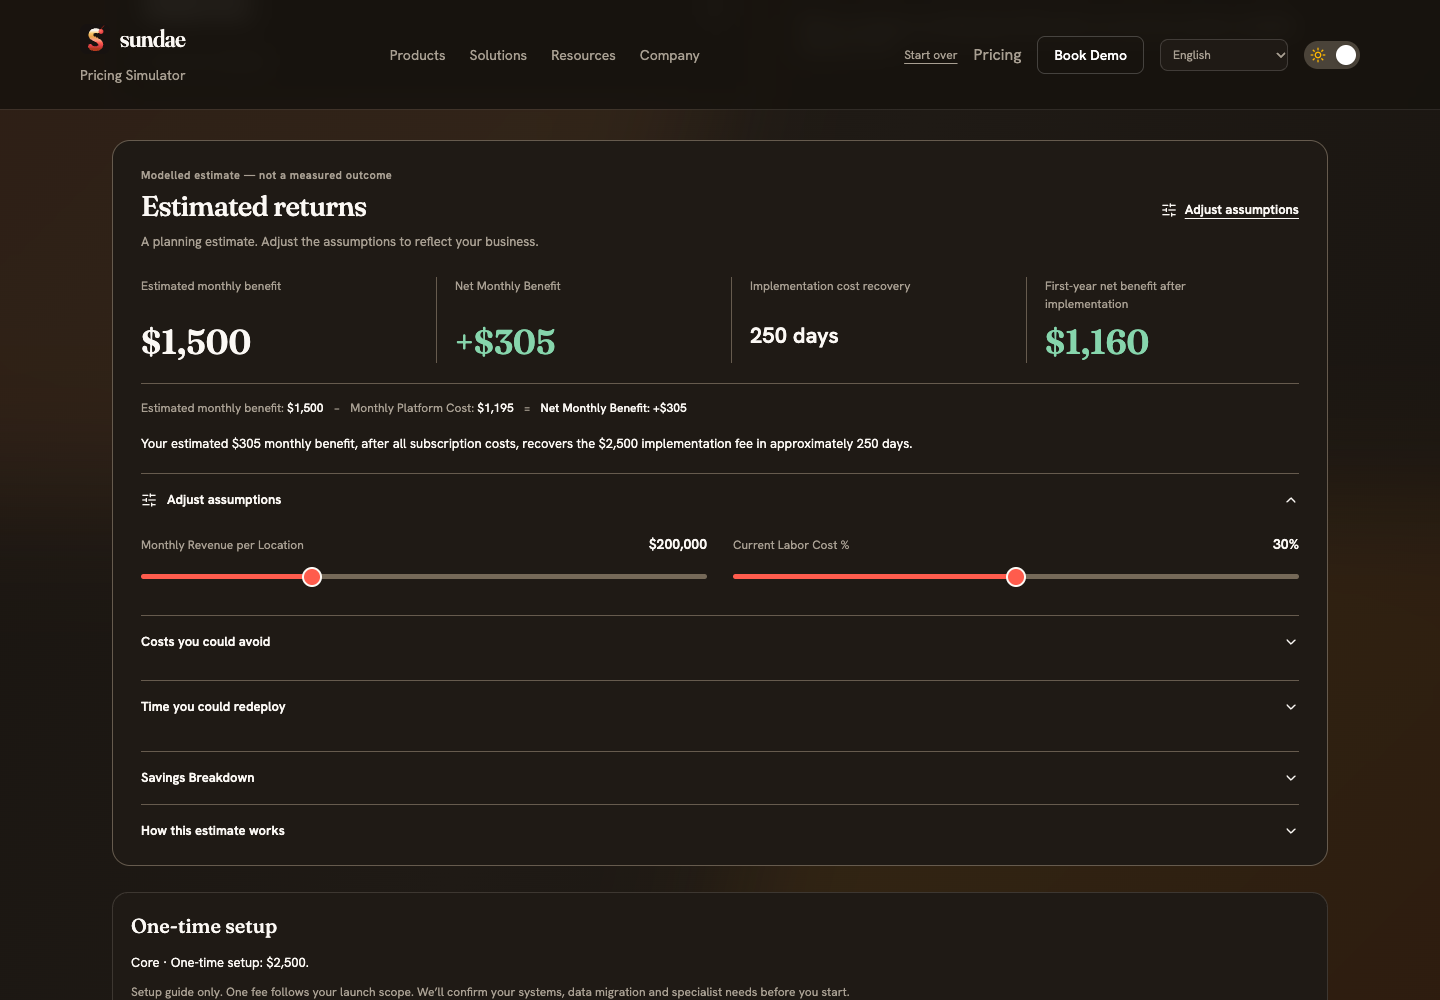
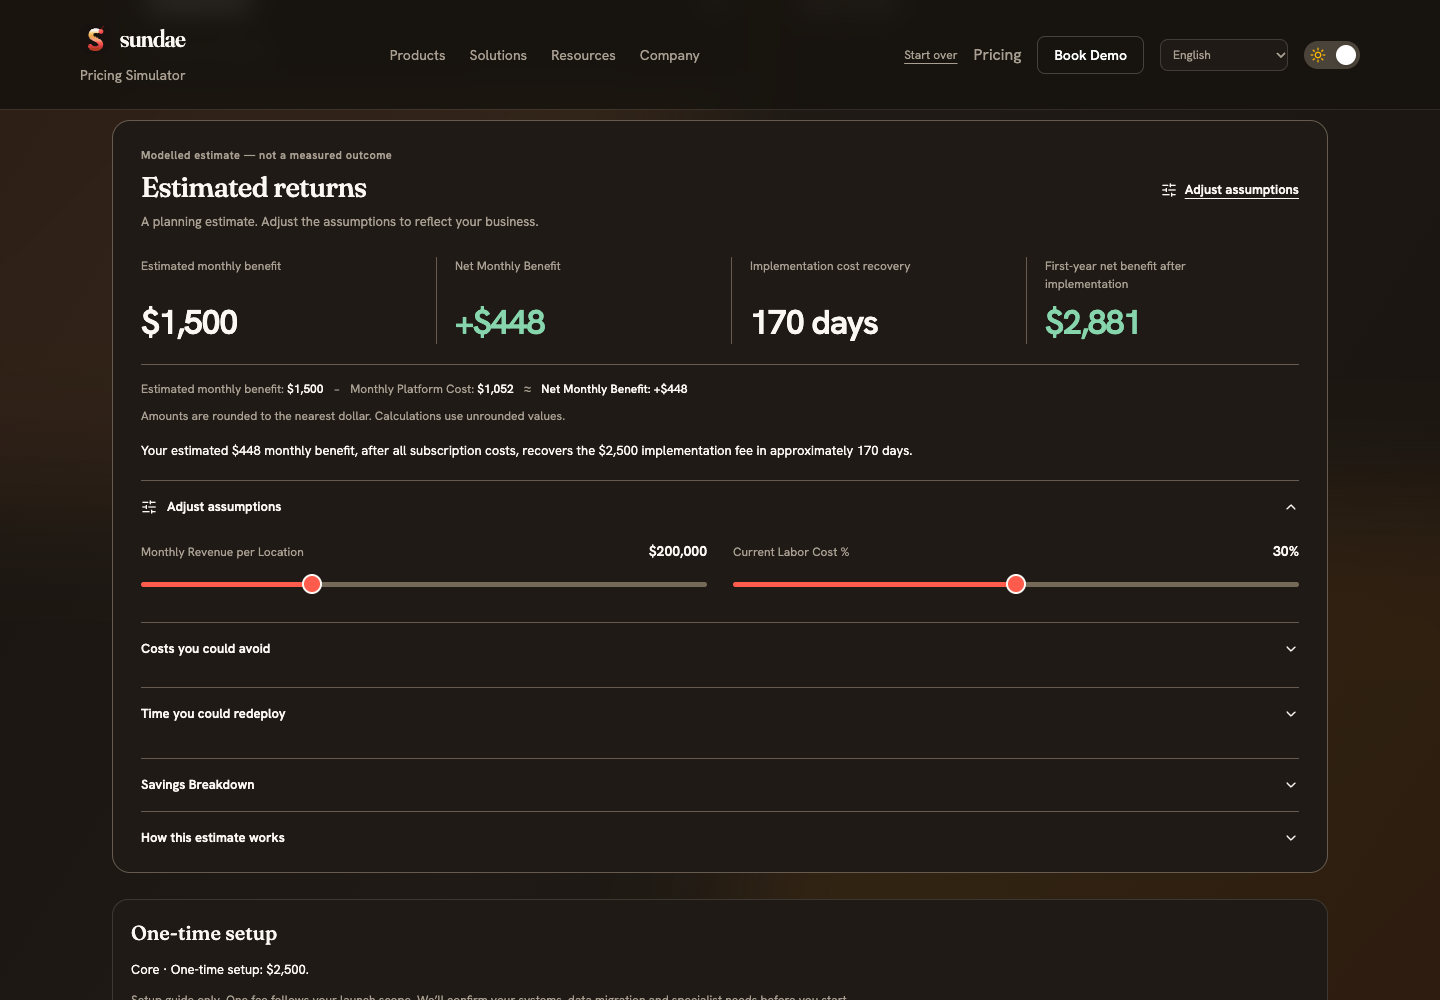
Round estimated returns and unify result typography (#59)
* refine(pricing): round return amounts and align result typography

* fix(pricing): isolate signed currency in RTL return metrics

diff --git a/src/lib/roiPresentationCopy.ts b/src/lib/roiPresentationCopy.ts
@@ -1,7 +1,8 @@
 import type { PricingLocale } from './locales';
 
-const copy: Record<PricingLocale, { title: string; hint: string; nextTitle: string; nextHint: string; adjust: string; method: string; cashTitle: string; cashNote: string; tools: string; hours: string; rate: string; capacity: string; capacityNote: string; monthlyBenefit: string; operatingSavings: string }> = {
+const copy: Record<PricingLocale, { title: string; hint: string; roundingNote: string; nextTitle: string; nextHint: string; adjust: string; method: string; cashTitle: string; cashNote: string; tools: string; hours: string; rate: string; capacity: string; capacityNote: string; monthlyBenefit: string; operatingSavings: string }> = {
   "en": {
+    "roundingNote": "Amounts are rounded to the nearest dollar. Calculations use unrounded values.",
     "nextTitle": "Next steps",
     "nextHint": "Book a demo, request access, or save this estimate for your team.",
     "title": "Estimated returns",
@@ -19,6 +20,7 @@ const copy: Record<PricingLocale, { title: string; hint: string; nextTitle: stri
     "operatingSavings": "Modelled operating savings"
   },
   "ar": {
+    "roundingNote": "تُقرَّب المبالغ إلى أقرب دولار. تستخدم الحسابات القيم غير المقرَّبة.",
     "nextTitle": "الخطوات التالية",
     "nextHint": "احجز عرضًا، أو اطلب الوصول، أو احفظ هذا التقدير لفريقك.",
     "title": "العوائد المقدّرة",
@@ -36,6 +38,7 @@ const copy: Record<PricingLocale, { title: string; hint: string; nextTitle: stri
     "operatingSavings": "وفورات تشغيلية مقدّرة بالنموذج"
   },
   "fr": {
+    "roundingNote": "Les montants sont arrondis au dollar le plus proche. Les calculs utilisent les valeurs non arrondies.",
     "nextTitle": "Prochaines étapes",
     "nextHint": "Réservez une démo, demandez un accès ou enregistrez cette estimation pour votre équipe.",
     "title": "Retours estimés",
@@ -53,6 +56,7 @@ const copy: Record<PricingLocale, { title: string; hint: string; nextTitle: stri
     "operatingSavings": "Économies opérationnelles modélisées"
   },
   "es": {
+    "roundingNote": "Los importes se redondean al dólar más cercano. Los cálculos usan valores sin redondear.",
     "nextTitle": "Próximos pasos",
     "nextHint": "Reserva una demo, solicita acceso o guarda esta estimación para tu equipo.",
     "title": "Retornos estimados",
@@ -70,6 +74,7 @@ const copy: Record<PricingLocale, { title: string; hint: string; nextTitle: stri
     "operatingSavings": "Ahorros operativos modelados"
   },
   "de": {
+    "roundingNote": "Beträge werden auf volle US-Dollar gerundet. Berechnungen verwenden ungerundete Werte.",
     "nextTitle": "Nächste Schritte",
     "nextHint": "Buchen Sie eine Demo, fragen Sie Zugang an oder speichern Sie diese Schätzung für Ihr Team.",
     "title": "Geschätzter Nutzen",
@@ -87,6 +92,7 @@ const copy: Record<PricingLocale, { title: string; hint: string; nextTitle: stri
     "operatingSavings": "Modellierte betriebliche Einsparungen"
   },
   "nl": {
+    "roundingNote": "Bedragen worden afgerond op hele dollars. Berekeningen gebruiken niet-afgeronde waarden.",
     "nextTitle": "Volgende stappen",
     "nextHint": "Boek een demo, vraag toegang aan of bewaar deze raming voor uw team.",
     "title": "Geschatte opbrengsten",
@@ -104,6 +110,7 @@ const copy: Record<PricingLocale, { title: string; hint: string; nextTitle: stri
     "operatingSavings": "Gemodelleerde operationele besparingen"
   },
   "pt": {
+    "roundingNote": "Os montantes são arredondados ao dólar mais próximo. Os cálculos usam valores não arredondados.",
     "nextTitle": "Próximos passos",
     "nextHint": "Marque uma demonstração, solicite acesso ou guarde esta estimativa para a sua equipa.",
     "title": "Retornos estimados",
@@ -121,6 +128,7 @@ const copy: Record<PricingLocale, { title: string; hint: string; nextTitle: stri
     "operatingSavings": "Poupanças operacionais modeladas"
   },
   "hi": {
+    "roundingNote": "राशियाँ निकटतम डॉलर तक गोल की गई हैं। गणना में बिना गोल किए मानों का उपयोग होता है।",
     "nextTitle": "अगले कदम",
     "nextHint": "डेमो बुक करें, एक्सेस का अनुरोध करें या अपनी टीम के लिए यह अनुमान सहेजें।",
     "title": "अनुमानित लाभ",
@@ -138,6 +146,7 @@ const copy: Record<PricingLocale, { title: string; hint: string; nextTitle: stri
     "operatingSavings": "मॉडल के अनुसार परिचालन बचत"
   },
   "ur": {
+    "roundingNote": "رقوم کو قریب ترین ڈالر تک گول کیا گیا ہے۔ حساب میں اصل غیر گول شدہ اعداد استعمال ہوتے ہیں۔",
     "nextTitle": "اگلے مراحل",
     "nextHint": "ڈیمو بک کریں، رسائی کی درخواست کریں یا یہ تخمینہ اپنی ٹیم کے لیے محفوظ کریں۔",
     "title": "تخمینی فوائد",
@@ -155,6 +164,7 @@ const copy: Record<PricingLocale, { title: string; hint: string; nextTitle: stri
     "operatingSavings": "ماڈل کے مطابق عملیاتی بچت"
   },
   "it": {
+    "roundingNote": "Gli importi sono arrotondati al dollaro più vicino. I calcoli usano valori non arrotondati.",
     "nextTitle": "Prossimi passi",
     "nextHint": "Prenota una demo, richiedi accesso o salva questa stima per il tuo team.",
     "title": "Benefici stimati",
@@ -172,6 +182,7 @@ const copy: Record<PricingLocale, { title: string; hint: string; nextTitle: stri
     "operatingSavings": "Risparmi operativi modellati"
   },
   "pl": {
+    "roundingNote": "Kwoty są zaokrąglone do pełnych dolarów. Obliczenia używają wartości niezaokrąglonych.",
     "nextTitle": "Kolejne kroki",
     "nextHint": "Umów demo, poproś o dostęp lub zapisz tę wycenę dla zespołu.",
     "title": "Szacowane korzyści",
@@ -189,6 +200,7 @@ const copy: Record<PricingLocale, { title: string; hint: string; nextTitle: stri
     "operatingSavings": "Modelowane oszczędności operacyjne"
   },
   "tr": {
+    "roundingNote": "Tutarlar en yakın dolara yuvarlanır. Hesaplamalarda yuvarlanmamış değerler kullanılır.",
     "nextTitle": "Sonraki adımlar",
     "nextHint": "Demo ayırtın, erişim talep edin veya bu tahmini ekibiniz için kaydedin.",
     "title": "Tahmini getiriler",
@@ -206,6 +218,7 @@ const copy: Record<PricingLocale, { title: string; hint: string; nextTitle: stri
     "operatingSavings": "Modellenen operasyonel tasarruf"
   },
   "zh-Hans": {
+    "roundingNote": "金额四舍五入到最接近的美元整数。计算使用未舍入的数值。",
     "nextTitle": "下一步",
     "nextHint": "预约演示、申请访问，或为团队保存此估算。",
     "title": "预计收益",
@@ -223,6 +236,7 @@ const copy: Record<PricingLocale, { title: string; hint: string; nextTitle: stri
     "operatingSavings": "模型估算的运营节省"
   },
   "ja": {
+    "roundingNote": "金額は1米ドル単位に四捨五入して表示しています。計算には丸め前の値を使用します。",
     "nextTitle": "次のステップ",
     "nextHint": "デモの予約、アクセスの申請、またはチーム用にこの見積もりを保存できます。",
     "title": "推定効果",
@@ -240,6 +254,7 @@ const copy: Record<PricingLocale, { title: string; hint: string; nextTitle: stri
     "operatingSavings": "モデルによる運営費削減額"
   },
   "ko": {
+    "roundingNote": "금액은 가장 가까운 달러 단위로 반올림합니다. 계산에는 반올림 전 값을 사용합니다.",
     "nextTitle": "다음 단계",
     "nextHint": "데모를 예약하거나 이용을 신청하거나 팀을 위해 이 견적을 저장하세요.",
     "title": "예상 편익",
@@ -257,6 +272,7 @@ const copy: Record<PricingLocale, { title: string; hint: string; nextTitle: stri
     "operatingSavings": "모델 기반 운영 절감액"
   },
   "id": {
+    "roundingNote": "Jumlah dibulatkan ke dolar terdekat. Perhitungan memakai nilai sebelum pembulatan.",
     "nextTitle": "Langkah berikutnya",
     "nextHint": "Jadwalkan demo, minta akses, atau simpan estimasi ini untuk tim Anda.",
     "title": "Estimasi manfaat",
@@ -274,6 +290,7 @@ const copy: Record<PricingLocale, { title: string; hint: string; nextTitle: stri
     "operatingSavings": "Penghematan operasional dalam model"
   },
   "vi": {
+    "roundingNote": "Số tiền được làm tròn đến đô la gần nhất. Phép tính sử dụng giá trị chưa làm tròn.",
     "nextTitle": "Các bước tiếp theo",
     "nextHint": "Đặt lịch demo, yêu cầu truy cập hoặc lưu ước tính này cho đội ngũ của bạn.",
     "title": "Lợi ích ước tính",
@@ -291,6 +308,7 @@ const copy: Record<PricingLocale, { title: string; hint: string; nextTitle: stri
     "operatingSavings": "Tiết kiệm vận hành theo mô hình"
   },
   "ro": {
+    "roundingNote": "Sumele sunt rotunjite la cel mai apropiat dolar. Calculele folosesc valorile nerotunjite.",
     "nextTitle": "Pașii următori",
     "nextHint": "Programează o demonstrație, solicită acces sau salvează această estimare pentru echipa ta.",
     "title": "Beneficii estimate",
@@ -308,6 +326,7 @@ const copy: Record<PricingLocale, { title: string; hint: string; nextTitle: stri
     "operatingSavings": "Economii operaționale modelate"
   },
   "sv": {
+    "roundingNote": "Beloppen avrundas till närmaste dollar. Beräkningarna använder oavrundade värden.",
     "nextTitle": "Nästa steg",
     "nextHint": "Boka en demo, begär åtkomst eller spara den här uppskattningen för ditt team.",
     "title": "Beräknad nytta",
@@ -325,6 +344,7 @@ const copy: Record<PricingLocale, { title: string; hint: string; nextTitle: stri
     "operatingSavings": "Modellerade driftbesparingar"
   },
   "bn": {
+    "roundingNote": "অঙ্কগুলো নিকটতম ডলারে পূর্ণ করা হয়েছে। গণনায় অপরিবর্তিত মূল মান ব্যবহার করা হয়।",
     "nextTitle": "পরবর্তী ধাপ",
     "nextHint": "ডেমো বুক করুন, অ্যাক্সেসের অনুরোধ করুন বা দলের জন্য এই হিসাব সংরক্ষণ করুন।",
     "title": "আনুমানিক সুবিধা",
@@ -342,6 +362,7 @@ const copy: Record<PricingLocale, { title: string; hint: string; nextTitle: stri
     "operatingSavings": "মডেল অনুযায়ী পরিচালন সাশ্রয়"
   },
   "th": {
+    "roundingNote": "จำนวนเงินปัดเป็นดอลลาร์ที่ใกล้ที่สุด การคำนวณใช้ค่าที่ยังไม่ปัดเศษ",
     "nextTitle": "ขั้นตอนถัดไป",
     "nextHint": "จองเดโม ขอสิทธิ์เข้าใช้งาน หรือบันทึกประมาณการนี้ให้ทีมของคุณ",
     "title": "ผลประโยชน์โดยประมาณ",
@@ -359,6 +380,7 @@ const copy: Record<PricingLocale, { title: string; hint: string; nextTitle: stri
     "operatingSavings": "การประหยัดจากการดำเนินงานตามแบบจำลอง"
   },
   "ms": {
+    "roundingNote": "Amaun dibundarkan kepada dolar terdekat. Pengiraan menggunakan nilai sebelum pembundaran.",
     "nextTitle": "Langkah seterusnya",
     "nextHint": "Tempah demo, minta akses atau simpan anggaran ini untuk pasukan anda.",
     "title": "Anggaran manfaat",
@@ -376,6 +398,7 @@ const copy: Record<PricingLocale, { title: string; hint: string; nextTitle: stri
     "operatingSavings": "Penjimatan operasi yang dimodelkan"
   },
   "az": {
+    "roundingNote": "Məbləğlər ən yaxın dollara yuvarlaqlaşdırılır. Hesablamalarda yuvarlaqlaşdırılmamış dəyərlər istifadə olunur.",
     "nextTitle": "Növbəti addımlar",
     "nextHint": "Demo sifariş edin, giriş üçün müraciət edin və ya bu hesablamanı komandanız üçün saxlayın.",
     "title": "Təxmini faydalar",
@@ -393,6 +416,7 @@ const copy: Record<PricingLocale, { title: string; hint: string; nextTitle: stri
     "operatingSavings": "Modelləşdirilmiş əməliyyat qənaəti"
   },
   "ru": {
+    "roundingNote": "Суммы округлены до ближайшего доллара. Расчёты используют неокруглённые значения.",
     "nextTitle": "Следующие шаги",
     "nextHint": "Запишитесь на демо, запросите доступ или сохраните этот расчёт для команды.",
     "title": "Ожидаемые выгоды",
@@ -410,6 +434,7 @@ const copy: Record<PricingLocale, { title: string; hint: string; nextTitle: stri
     "operatingSavings": "Расчётная операционная экономия"
   },
   "pap": {
+    "roundingNote": "Montantenan ta rondá na e dòler mas serka. Kalkulashonnan ta usa balornan sin rondá.",
     "nextTitle": "Siguiente pasonan",
     "nextHint": "Reserva un demo, pidi akseso òf warda e estimashon aki pa bo ekipo.",
     "title": "Benefisionan estimá",

diff --git a/src/components/PricingDisplay/ROISimulator.tsx b/src/components/PricingDisplay/ROISimulator.tsx
@@ -20,7 +20,11 @@ export function ROISimulator() {
   const { layer, corePackage, locations, watchtowerModules, roiInputs, setROIInputs } = useConfiguration();
   const { quote: pricing } = useBuyerQuote();
   const headingId = useId();
-  const money = (amount: number) => new Intl.NumberFormat(locale, { style: 'currency', currency: 'USD', maximumFractionDigits: amount % 1 ? 2 : 0 }).format(amount);
+  // Round presentation only; model inputs, net benefit and recovery keep their precision.
+  const wholeDollars = (amount: number) => Math.sign(amount) * Math.round(Math.abs(amount)) || 0;
+  const moneyFormat = new Intl.NumberFormat(locale, { style: 'currency', currency: 'USD', minimumFractionDigits: 0, maximumFractionDigits: 0 });
+  const signedMoneyFormat = new Intl.NumberFormat(locale, { style: 'currency', currency: 'USD', minimumFractionDigits: 0, maximumFractionDigits: 0, signDisplay: 'exceptZero' });
+  const money = (amount: number) => moneyFormat.format(wholeDollars(amount));
   const activeDomains = (corePackages[corePackage]?.includesDomainModules ?? []) as readonly string[];
   const implementationCost = pricing.implementation.requiresScoping || pricing.implementation.isFloor ? null : pricing.implementation.fee;
   const roi = useROICalculation(
@@ -39,7 +43,7 @@ export function ROISimulator() {
   useEffect(() => {
     if (roiInputs.monthlyRevenue !== revenue) setROIInputs({ monthlyRevenue: revenue });
   }, [roiInputs.monthlyRevenue, revenue, setROIInputs]);
-  const signedMoney = (amount: number) => new Intl.NumberFormat(locale, { style: 'currency', currency: 'USD', maximumFractionDigits: amount % 1 ? 2 : 0, signDisplay: amount > 0 ? 'always' : 'auto' }).format(amount);
+  const signedMoney = (amount: number) => signedMoneyFormat.format(wholeDollars(amount));
   const state = roi.monthlyNetBenefit > 0 ? 'positive' : 'shortfall';
 
   return <section id="estimated-returns" tabIndex={-1} className="roi-workspace" aria-labelledby={headingId} data-testid="roi-workspace">
@@ -53,12 +57,13 @@ export function ROISimulator() {
     </div>
 
     <dl className="roi-metrics" data-testid="roi-metrics">
-      <div><dt>{ui.monthlyBenefit}</dt><dd data-testid="roi-monthly-funding">{money(roi.monthlyFunding)}</dd></div>
-      <div data-state={state}><dt>{copy.netMonthlyBenefit}</dt><dd data-testid="roi-monthly-net">{signedMoney(roi.monthlyNetBenefit)}</dd></div>
-      <div><dt>{economicsCopy.paybackLabel}</dt><dd className="roi-payback-value" data-testid="roi-payback">{paybackText}</dd></div>
-      <div data-state={roi.firstYearNetBenefit !== null && roi.firstYearNetBenefit > 0 ? 'positive' : 'neutral'}><dt>{economicsCopy.firstYearNetLabel}</dt><dd data-testid="roi-first-year-net">{roi.firstYearNetBenefit === null ? '—' : money(roi.firstYearNetBenefit)}</dd></div>
+      <div><dt>{ui.monthlyBenefit}</dt><dd data-testid="roi-monthly-funding"><bdi dir="ltr">{money(roi.monthlyFunding)}</bdi></dd></div>
+      <div data-state={state}><dt>{copy.netMonthlyBenefit}</dt><dd data-testid="roi-monthly-net"><bdi dir="ltr">{signedMoney(roi.monthlyNetBenefit)}</bdi></dd></div>
+      <div><dt>{economicsCopy.paybackLabel}</dt><dd className="roi-payback-value" data-numeric={roi.monthlyNetBenefit > 0 && roi.paybackDays !== null} data-testid="roi-payback">{paybackText}</dd></div>
+      <div data-state={roi.firstYearNetBenefit !== null && roi.firstYearNetBenefit > 0 ? 'positive' : 'neutral'}><dt>{economicsCopy.firstYearNetLabel}</dt><dd data-testid="roi-first-year-net"><bdi dir="ltr">{roi.firstYearNetBenefit === null ? '—' : money(roi.firstYearNetBenefit)}</bdi></dd></div>
     </dl>
-    <p className="roi-equation"><span>{ui.monthlyBenefit}: <bdi>{money(roi.monthlyFunding)}</bdi></span><span aria-hidden>−</span><span>{copy.monthlyPlatformCost}: <bdi>{money(pricing.monthly)}</bdi></span><span aria-hidden>=</span><strong>{copy.netMonthlyBenefit}: <bdi>{signedMoney(roi.monthlyNetBenefit)}</bdi></strong></p>
+    <p className="roi-equation"><span>{ui.monthlyBenefit}: <bdi>{money(roi.monthlyFunding)}</bdi></span><span aria-hidden>−</span><span>{copy.monthlyPlatformCost}: <bdi>{money(pricing.monthly)}</bdi></span><span aria-hidden>≈</span><strong>{copy.netMonthlyBenefit}: <bdi>{signedMoney(roi.monthlyNetBenefit)}</bdi></strong></p>
+    <p className="roi-rounding-note">{ui.roundingNote}</p>
     {recoveryExplanation && <p className="roi-recovery-note" data-testid="roi-recovery-explanation">{recoveryExplanation}</p>}
     {roi.monthlyNetBenefit <= 0 && <p className="roi-shortfall-note">{copy.roiDescriptions.longTerm}</p>}
 

diff --git a/__tests__/roiRendering.spec.ts b/__tests__/roiRendering.spec.ts
@@ -10,13 +10,14 @@ import setupPolicy from './fixtures/roi-implementation-policy.json';
 const state = vi.hoisted(() => ({
   layer: 'both' as 'core' | 'both', corePackage: 'core_foundation' as const, locations: 1,
   watchtowerModules: [], crewSkus: ['crew_operations', 'crew_scheduling', 'crew_tna', 'crew_payroll'],
-  roiInputs: { monthlyRevenue: 200000, laborPercent: 30, foodCostPercent: 30 },
+  billingCycle: 'monthly' as 'monthly' | 'annual_upfront',
+  roiInputs: { monthlyRevenue: 200000, laborPercent: 30, foodCostPercent: 30, replaceableSystemsSpend: 0 },
   setROIInputs: () => {}, goToStep: () => {}, goToPrevStep: () => {},
 }));
 vi.mock('../src/contexts/LocaleContext', () => ({ useLocale: () => ({ locale: 'en' }) }));
 vi.mock('../src/hooks/useConfiguration', () => ({ useConfiguration: () => state }));
 vi.mock('../src/hooks/useBuyerQuote', () => ({ useBuyerQuote: () => ({ quote: calculateBasketQuote({
-  v: 2, ...state, addOns: [], crossIntelligence: 'none', billingCycle: 'monthly',
+  v: 2, ...state, addOns: [], crossIntelligence: 'none', billingCycle: state.billingCycle,
   operatingModels: [], employees: null, payrollCountry: '', crewSkus: state.crewSkus as never,
 }) }) }));
 
@@ -24,6 +25,30 @@ function card(html: string, id: string) {
   return html.match(new RegExp(`data-testid="${id}"[^>]*>([\\s\\S]*?)</(?:div|dd)>`))?.[1].replace(/<[^>]*>|<!-- -->/g, '');
 }
 describe('rendered full-plan ROI results', () => {
+  it('shows whole-dollar estimates while retaining fractional subscription costs in the calculation', () => {
+    applyLiveCatalogValues({ ...catalog, ...setupPolicy } as never);
+    state.layer = 'core';
+    state.billingCycle = 'annual_upfront';
+    try {
+      const html = renderToStaticMarkup(createElement(ROISimulator));
+      expect(card(html, 'roi-monthly-net')).toBe('+$448');
+      expect(card(html, 'roi-first-year-net')).toBe('$2,881');
+      expect(card(html, 'roi-payback')).toBe('170 days');
+      expect(html).toContain('$1,052');
+      expect(html).not.toContain('$1,051.60');
+      expect(html).toContain('Calculations use unrounded values.');
+    } finally { state.layer = 'both'; state.billingCycle = 'monthly'; }
+  });
+  it('does not print negative zero or claim recovery for a small rounded-away shortfall', () => {
+    applyLiveCatalogValues({ ...catalog, ...setupPolicy } as never);
+    state.roiInputs.replaceableSystemsSpend = 193.8;
+    try {
+      const html = renderToStaticMarkup(createElement(ROISimulator));
+      expect(card(html, 'roi-monthly-net')).toBe('$0');
+      expect(card(html, 'roi-payback')).toBe('Not at these inputs');
+      expect(html).not.toContain('-$0');
+    } finally { state.roiInputs.replaceableSystemsSpend = 0; }
+  });
   it('explains which initial fee is recovered from the after-subscription monthly benefit', () => {
     applyLiveCatalogValues({ ...catalog, ...setupPolicy } as never);
     state.layer = 'core';

diff --git a/src/index.css b/src/index.css
@@ -983,12 +983,13 @@ button:disabled { opacity:.45; cursor:not-allowed; }
 .roi-metrics > div { min-width:0; padding-inline-start:18px; border-inline-start:1px solid var(--roi-border); }
 .roi-metrics > div:first-child { padding-inline-start:0; border:0; }
 .roi-metrics dt { font-size:12px; line-height:1.5; color:var(--color-sundae-muted); max-width:220px; min-height:3em; }
-.roi-metrics dd { font-family:var(--font-display); font-size:clamp(24px,2.6vw,34px); line-height:1.25; font-weight:600; margin-top:8px; font-variant-numeric:tabular-nums; overflow-wrap:anywhere; }
-.roi-metrics .roi-payback-value { font-family:var(--font-sans); font-size:22px; line-height:1.4; font-weight:600; }
+.roi-metrics dd { font-family:var(--font-sans); font-size:clamp(24px,2.6vw,34px); line-height:1.25; font-weight:600; letter-spacing:-.035em; margin-top:8px; font-variant-numeric:tabular-nums lining-nums; overflow-wrap:anywhere; }
+.roi-metrics .roi-payback-value[data-numeric=false] { font-size:20px; line-height:1.4; letter-spacing:-.015em; }
 .roi-metrics [data-state=positive] dd { color:var(--roi-positive); }
 .roi-metrics [data-state=shortfall] dd { color:var(--roi-warning); }
 .roi-equation { display:flex; flex-wrap:wrap; align-items:baseline; gap:6px 10px; font-size:12px; line-height:1.7; padding-block:14px; border-top:1px solid var(--roi-border); color:var(--color-sundae-muted); }
 .roi-equation bdi, .roi-equation strong { color:var(--color-sundae-text); font-variant-numeric:tabular-nums; font-weight:500; }
+.roi-rounding-note { color:var(--color-sundae-muted); font-size:12px; line-height:1.6; margin-top:-6px; margin-bottom:14px; }
 .roi-recovery-note, .roi-shortfall-note { font-size:13px; line-height:1.7; margin-bottom:18px; max-width:900px; }
 .roi-shortfall-note { color:var(--roi-warning); }
 .roi-disclosure { border:0; border-top:1px solid var(--roi-border); font-size:13px; }
@@ -1047,8 +1048,8 @@ button:disabled { opacity:.45; cursor:not-allowed; }
   .roi-metrics { gap:20px 14px; }
   .roi-metrics > div { padding-inline-start:12px; }
   .roi-metrics dd { font-size:26px; }
-  .roi-metrics .roi-payback-value { font-size:17px; }
-  .roi-metrics dt { font-size:11px; }
+  .roi-metrics .roi-payback-value[data-numeric=false] { font-size:17px; }
+  .roi-metrics dt { font-size:12px; }
   .roi-equation { display:grid; grid-template-columns:minmax(0,1fr); gap:4px; }
   .roi-equation > span[aria-hidden] { display:none; }
   .roi-input-grid, .roi-method-values { grid-template-columns:minmax(0,1fr); gap:14px; }
